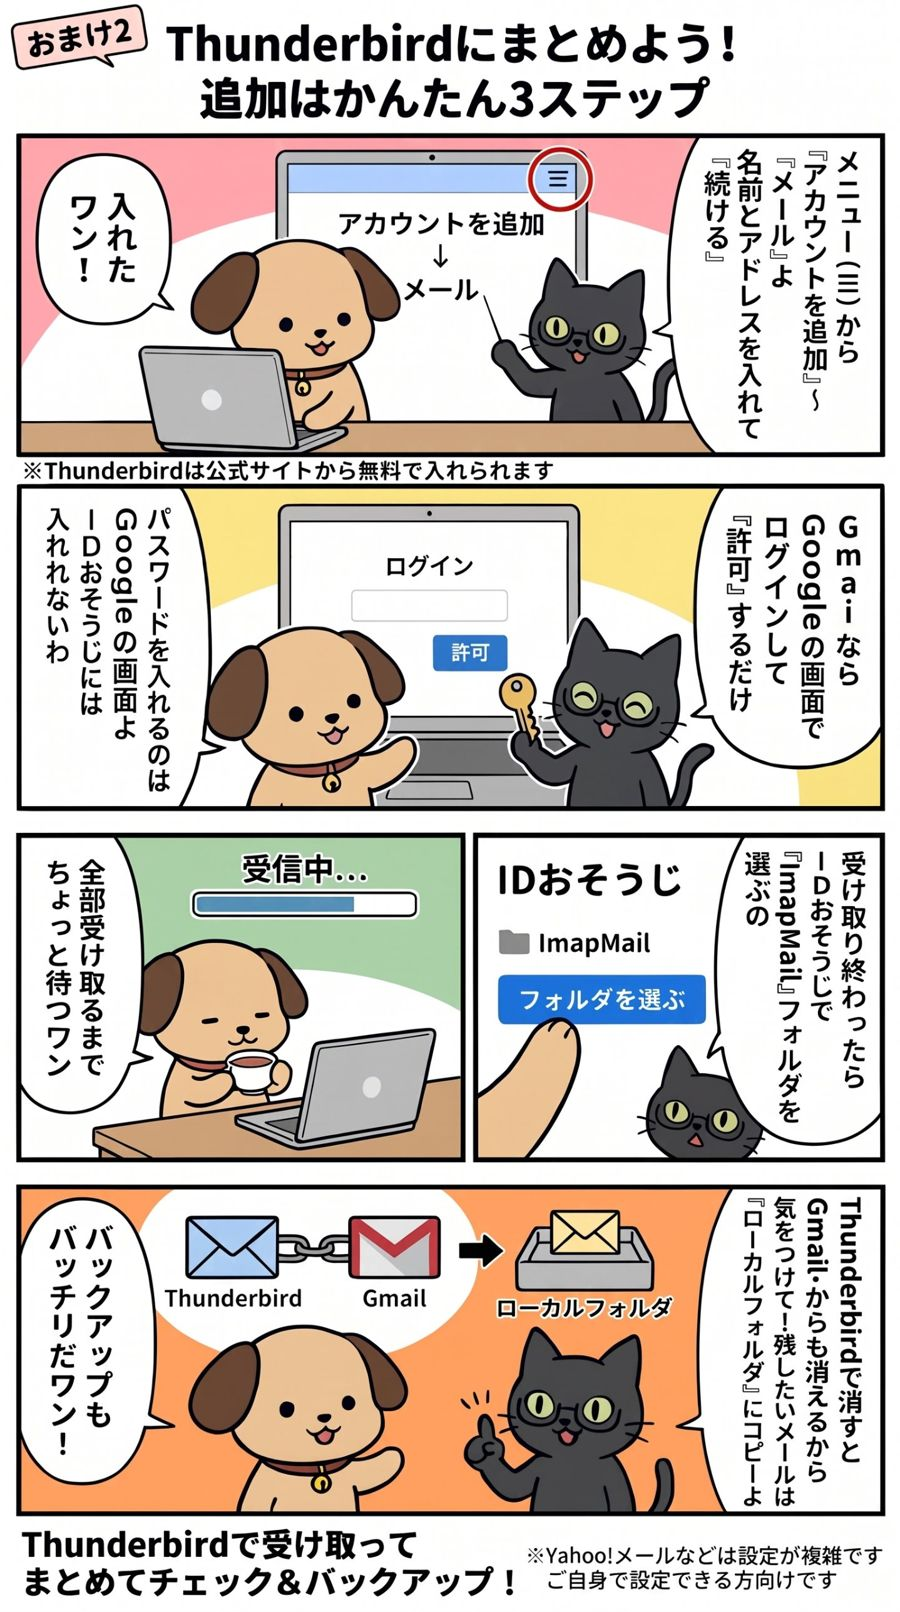
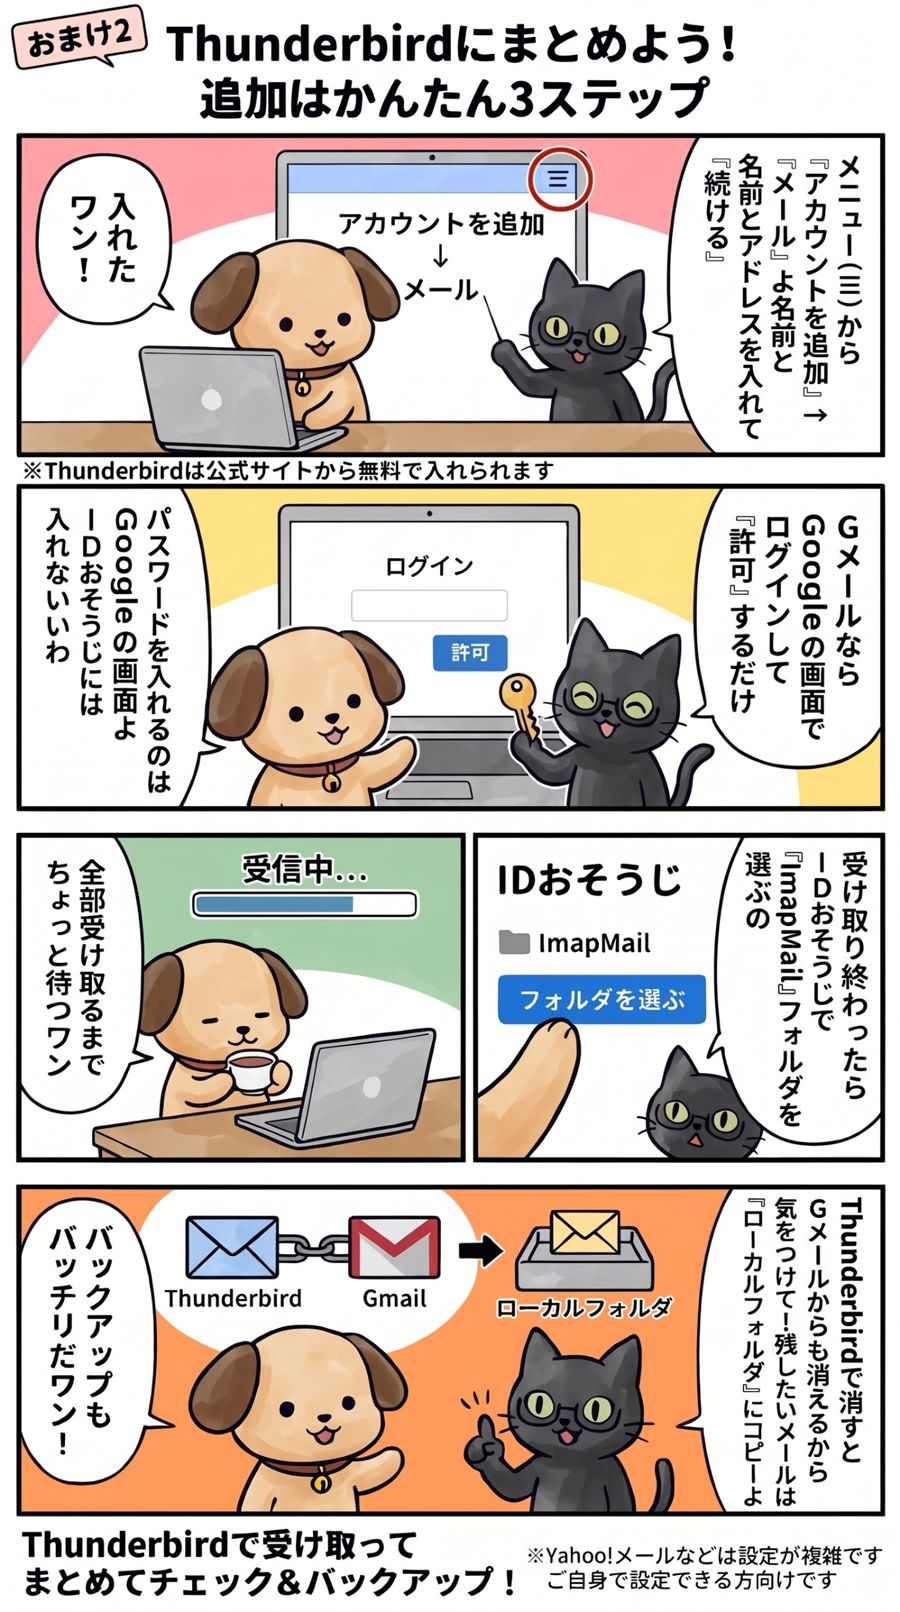
up

diff --git a/id-osouji.html b/id-osouji.html
@@ -14,20 +14,20 @@
 <h2>マンガで分かる</h2>
 <p>パス太（子犬）とキーナ（メガネの黒猫）が、IDおそうじの使い方を紹介します。画像を押すと大きく開きます。</p>
 <div class="manga">
-<figure><a href="images/id-osouji/manga-1.jpg" target="_blank" rel="noopener"><img src="images/id-osouji/manga-1.jpg" alt="マンガ1：自分のID、迷子になってない？" loading="lazy" width="900" height="1612"></a><figcaption>1　自分のID、迷子になってない？</figcaption></figure>
-<figure><a href="images/id-osouji/manga-2.jpg" target="_blank" rel="noopener"><img src="images/id-osouji/manga-2.jpg" alt="マンガ2：漏れたら絶対拡大防止！鍵を掛け直す方法" loading="lazy" width="900" height="1612"></a><figcaption>2　漏れたら拡大防止！鍵を掛け直す方法</figcaption></figure>
-<figure><a href="images/id-osouji/manga-3.jpg" target="_blank" rel="noopener"><img src="images/id-osouji/manga-3.jpg" alt="マンガ3：クレカ未登録でも安心できない？名寄せのワナ" loading="lazy" width="900" height="1612"></a><figcaption>3　クレカ未登録でも安心できない？「名寄せ」のワナ</figcaption></figure>
-<figure><a href="images/id-osouji/omake-1.jpg" target="_blank" rel="noopener"><img src="images/id-osouji/omake-1.jpg" alt="おまけ1：メールがバラバラ！？ Thunderbirdでひとまとめ！" loading="lazy" width="900" height="1612"></a><figcaption>おまけ1　メールがバラバラ！？ Thunderbirdでひとまとめ！</figcaption></figure>
-<figure><a href="images/id-osouji/omake-2.jpg" target="_blank" rel="noopener"><img src="images/id-osouji/omake-2.jpg" alt="おまけ2：Thunderbirdにまとめよう！追加はかんたん3ステップ" loading="lazy" width="900" height="1612"></a><figcaption>おまけ2　Thunderbirdにまとめよう！追加はかんたん3ステップ</figcaption></figure>
+<figure><figcaption>1　自分のID、迷子になってない？</figcaption><a href="images/id-osouji/manga-1.jpg" target="_blank" rel="noopener"><img src="images/id-osouji/manga-1.jpg" alt="マンガ1：自分のID、迷子になってない？" loading="lazy" width="900" height="1612"></a></figure>
+<figure><figcaption>2　漏れたら拡大防止！鍵を掛け直す方法</figcaption><a href="images/id-osouji/manga-2.jpg" target="_blank" rel="noopener"><img src="images/id-osouji/manga-2.jpg" alt="マンガ2：漏れたら絶対拡大防止！鍵を掛け直す方法" loading="lazy" width="900" height="1612"></a></figure>
+<figure><figcaption>3　クレカ未登録でも安心できない？「名寄せ」のワナ</figcaption><a href="images/id-osouji/manga-3.jpg" target="_blank" rel="noopener"><img src="images/id-osouji/manga-3.jpg" alt="マンガ3：クレカ未登録でも安心できない？名寄せのワナ" loading="lazy" width="900" height="1612"></a></figure>
+<figure><figcaption>おまけ1　メールがバラバラ！？ Thunderbirdでひとまとめ！</figcaption><a href="images/id-osouji/omake-1.jpg" target="_blank" rel="noopener"><img src="images/id-osouji/omake-1.jpg" alt="おまけ1：メールがバラバラ！？ Thunderbirdでひとまとめ！" loading="lazy" width="900" height="1612"></a></figure>
+<figure><figcaption>おまけ2　Thunderbirdにまとめよう！追加はかんたん3ステップ</figcaption><a href="images/id-osouji/omake-2.jpg" target="_blank" rel="noopener"><img src="images/id-osouji/omake-2.jpg" alt="おまけ2：Thunderbirdにまとめよう！追加はかんたん3ステップ" loading="lazy" width="900" height="1612"></a></figure>
 </div>
 <p class="note">おまけ1・2は、Thunderbirdを使うと便利になることの紹介です。IDおそうじを使うのに、Thunderbirdは必須ではありません（Outlookのデータファイルや、書き出したメールファイルも読み込めます）。</p>
 
 <h2>動画で見る</h2>
 <p>マンガの続きとして、実際の画面で操作する様子です（約1分・音が出ます）。画面に映っているのは、撮影用の架空のサービスです。</p>
 <div class="video">
-<figure><video controls preload="none" playsinline poster="images/id-osouji/poster-ep1.jpg" src="videos/id-osouji-ep1.mp4"></video><figcaption>第1話　読み込んで、漏洩のお知らせを見つける</figcaption></figure>
-<figure><video controls preload="none" playsinline poster="images/id-osouji/poster-ep2.jpg" src="videos/id-osouji-ep2.mp4"></video><figcaption>第2話　2段階認証・パスキー、無ければパスワード変更</figcaption></figure>
-<figure><video controls preload="none" playsinline poster="images/id-osouji/poster-ep3.jpg" src="videos/id-osouji-ep3.mp4"></video><figcaption>第3話　一覧で仕分けて、使わないものは退会</figcaption></figure>
+<figure><figcaption>第1話　読み込んで、漏洩のお知らせを見つける</figcaption><video controls preload="none" playsinline poster="images/id-osouji/poster-ep1.jpg" src="videos/id-osouji-ep1.mp4"></video></figure>
+<figure><figcaption>第2話　2段階認証・パスキー、無ければパスワード変更</figcaption><video controls preload="none" playsinline poster="images/id-osouji/poster-ep2.jpg" src="videos/id-osouji-ep2.mp4"></video></figure>
+<figure><figcaption>第3話　一覧で仕分けて、使わないものは退会</figcaption><video controls preload="none" playsinline poster="images/id-osouji/poster-ep3.jpg" src="videos/id-osouji-ep3.mp4"></video></figure>
 </div>
 
 <h2>使い方</h2>
@@ -42,9 +42,9 @@
 
 <h2>画面</h2>
 <div class="shots">
-<figure><a href="images/id-osouji/shot-summary.jpg" target="_blank" rel="noopener"><img src="images/id-osouji/shot-summary.jpg" alt="見つかったサービスの数と、進め方" loading="lazy"></a><figcaption>見つかったサービスの数と、①〜⑤の進め方</figcaption></figure>
-<figure><a href="images/id-osouji/shot-leak.jpg" target="_blank" rel="noopener"><img src="images/id-osouji/shot-leak.jpg" alt="漏洩のお知らせが届いていたサービス" loading="lazy"></a><figcaption>漏洩のお知らせと、おすすめの対応</figcaption></figure>
-<figure><a href="images/id-osouji/shot-sort.jpg" target="_blank" rel="noopener"><img src="images/id-osouji/shot-sort.jpg" alt="一覧で仕分け" loading="lazy"></a><figcaption>「使う」「使わない」を押していくだけの仕分け</figcaption></figure>
+<figure><figcaption>見つかったサービスの数と、①〜⑤の進め方</figcaption><a href="images/id-osouji/shot-summary.jpg" target="_blank" rel="noopener"><img src="images/id-osouji/shot-summary.jpg" alt="見つかったサービスの数と、進め方" loading="lazy"></a></figure>
+<figure><figcaption>漏洩のお知らせと、おすすめの対応</figcaption><a href="images/id-osouji/shot-leak.jpg" target="_blank" rel="noopener"><img src="images/id-osouji/shot-leak.jpg" alt="漏洩のお知らせが届いていたサービス" loading="lazy"></a></figure>
+<figure><figcaption>「使う」「使わない」を押していくだけの仕分け</figcaption><a href="images/id-osouji/shot-sort.jpg" target="_blank" rel="noopener"><img src="images/id-osouji/shot-sort.jpg" alt="一覧で仕分け" loading="lazy"></a></figure>
 </div>
 
 <h2>安心のしくみ</h2>
@@ -71,7 +71,7 @@
 <tr><th>販売</th><td>製品版は販売準備中です。まずはデモ版で、あなたのメールから見つかる数を確かめてください。<br><a class="btn sub" data-buy="idosouji" href="#" style="margin-top:12px">製品版を購入する</a></td></tr>
 <tr><th>動作環境</th><td>パソコン（Windows）の Edge / Chrome を想定しています。</td></tr>
 </table>
-<div class="video one"><figure><video controls preload="none" playsinline poster="images/id-osouji/poster-pro.jpg" src="videos/id-osouji-pro.mp4"></video><figcaption>製品版でできること（約1分）</figcaption></figure></div>
+<div class="video one"><figure><figcaption>製品版でできること（約1分）</figcaption><video controls preload="none" playsinline poster="images/id-osouji/poster-pro.jpg" src="videos/id-osouji-pro.mp4"></video></figure></div>
 
 <h2>感想をお寄せください</h2>
 <p>「何件見つかった」「ここが分かりにくい」など、デモ版を使った感想をお待ちしています。noteの記事へのコメントで受け付けています。製品版の内容や価格の参考にします。</p>

diff --git a/css/style.css b/css/style.css
@@ -87,3 +87,5 @@ figcaption{font-size:.88rem;font-weight:700;margin-top:10px;color:var(--cream)}
 .proof{margin:10px 0 4px;max-width:640px}
 .proof img{display:block;width:100%;height:auto;background:#fff;border:3px solid var(--bk);box-shadow:4px 4px 0 var(--bk)}
 .proof figcaption{font-size:.8rem;margin-top:6px}
+
+.manga figcaption,.video figcaption,.shots figcaption{margin:0 0 10px;font-size:1rem}
